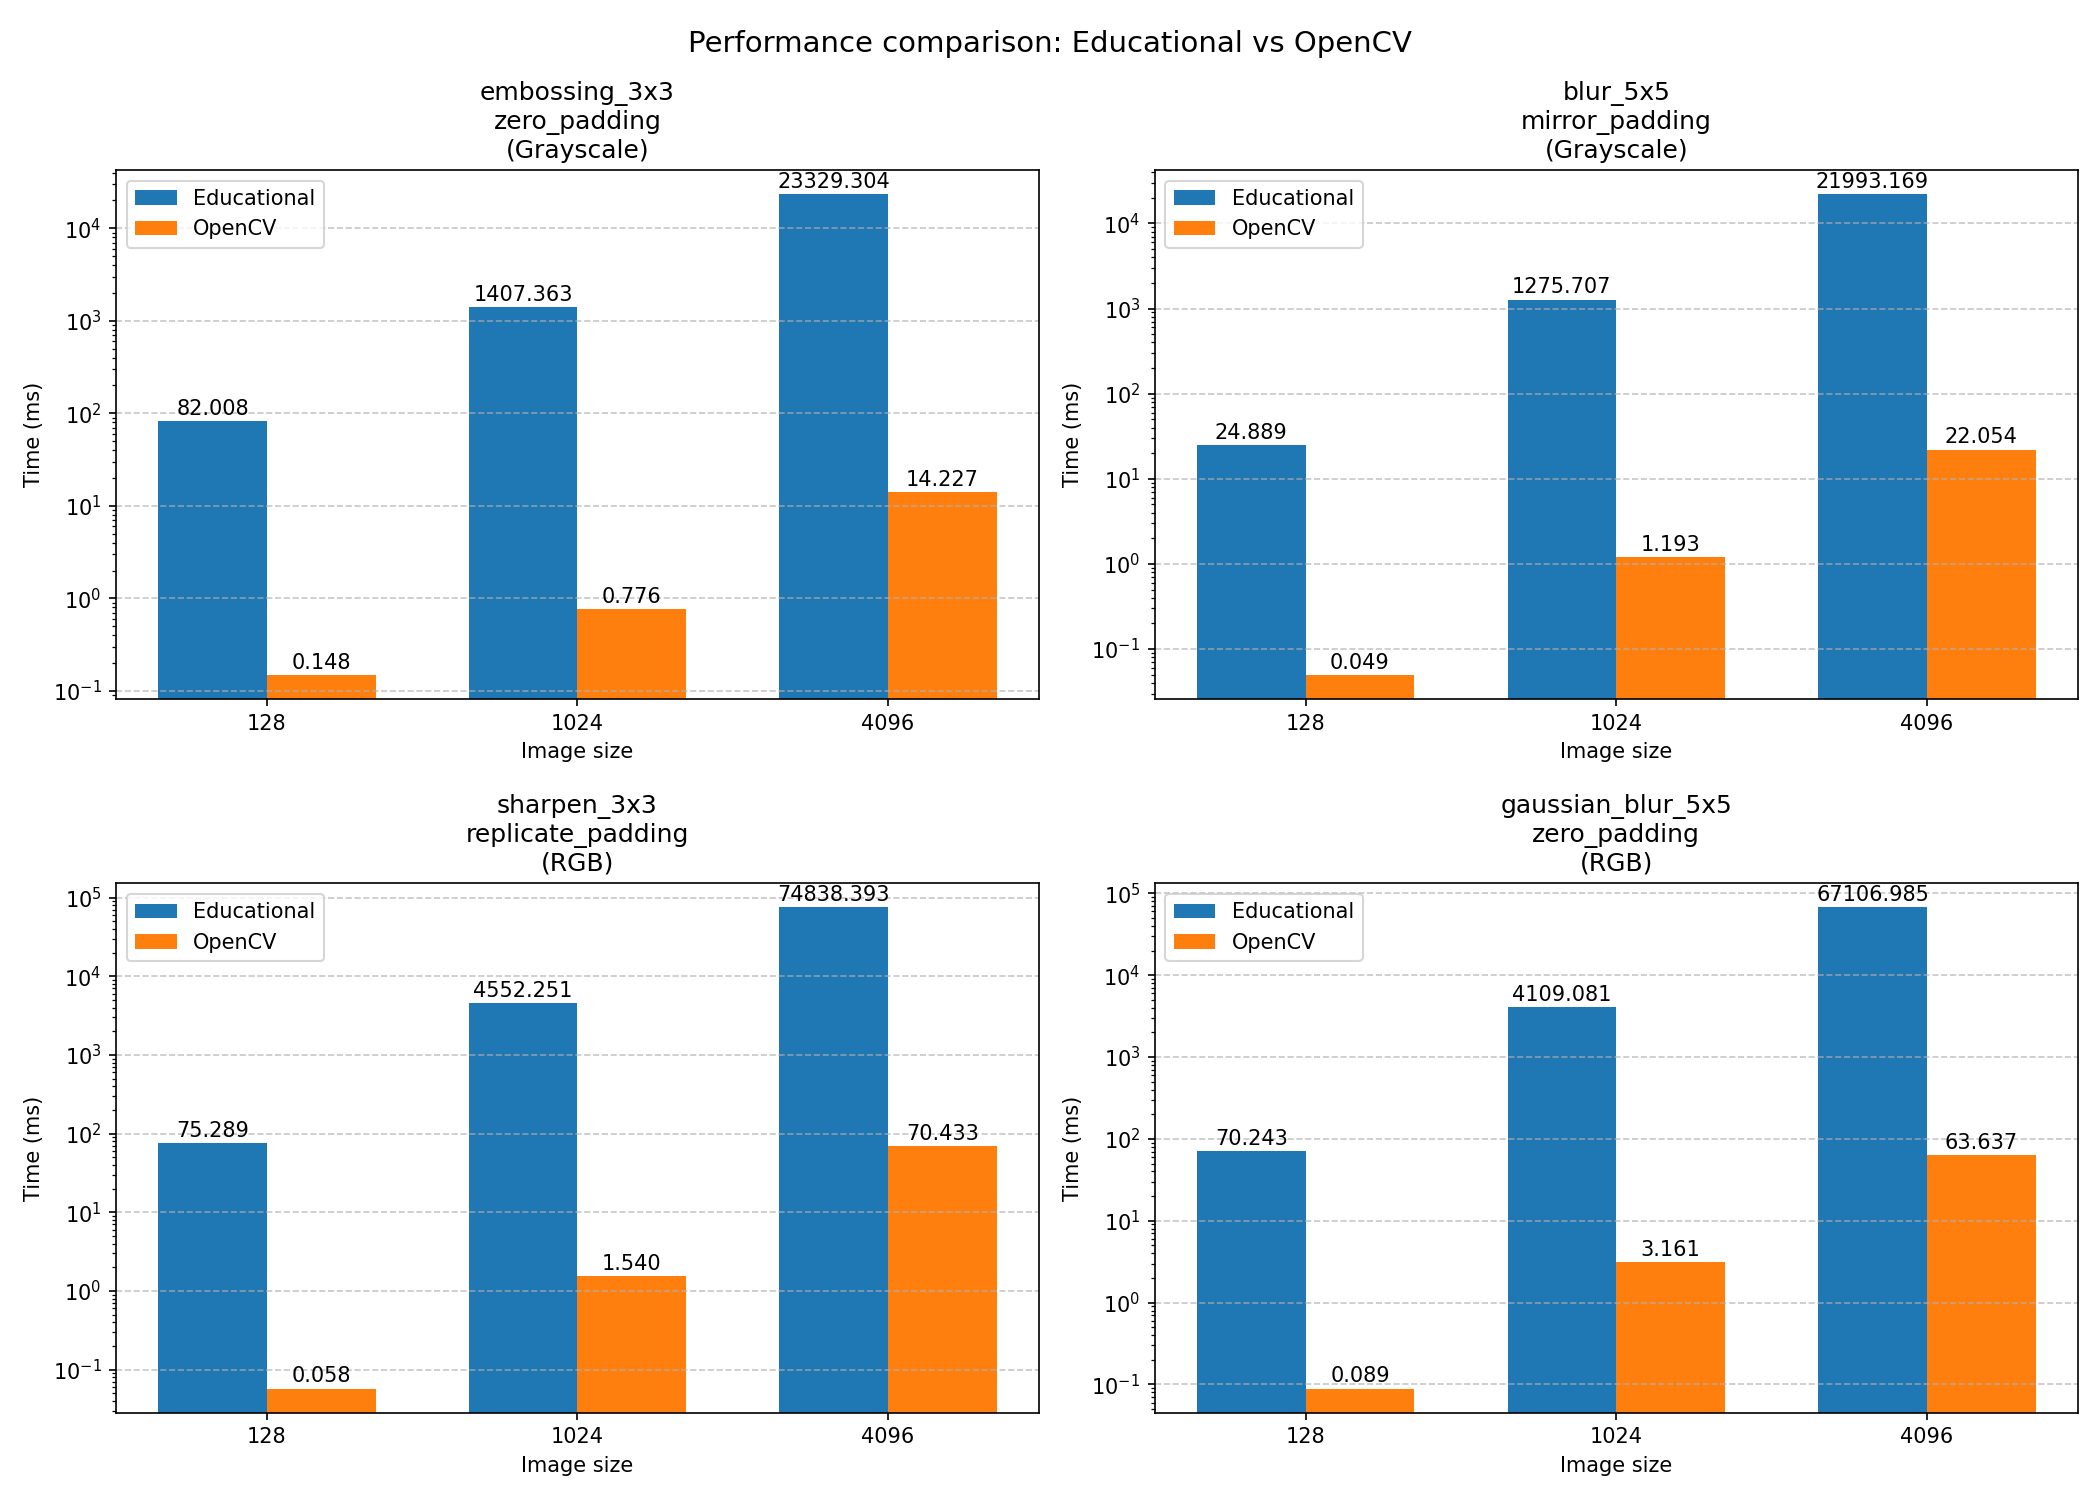
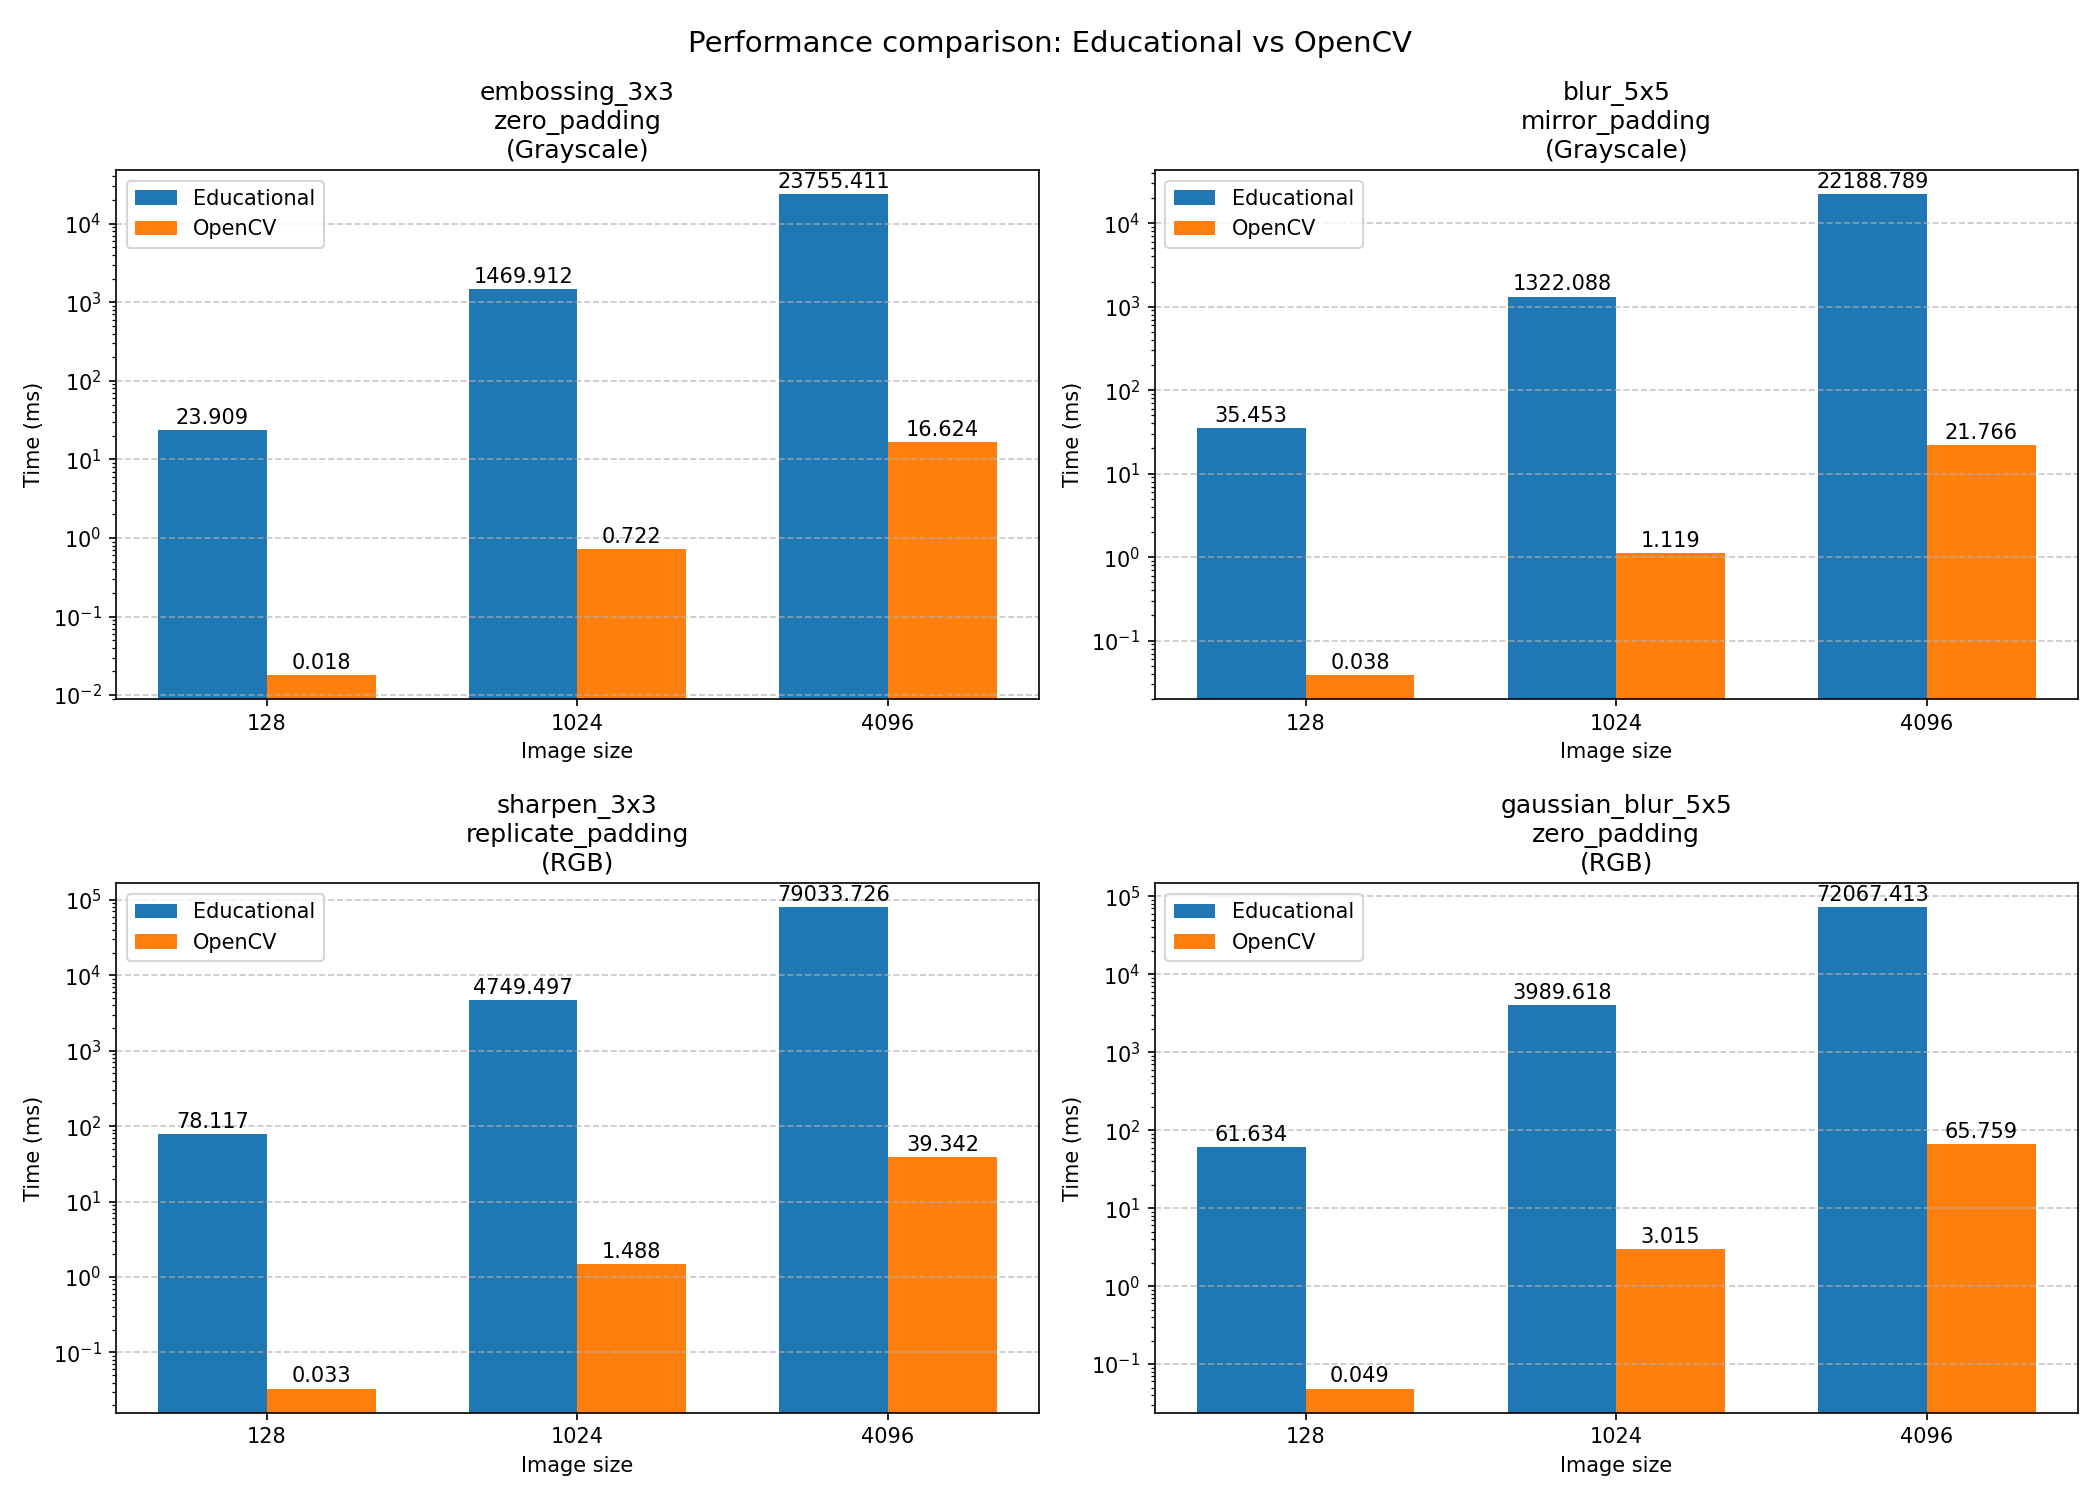
add warmup and multiple runs to benchmark

diff --git a/src/benchmark/benchmark.py b/src/benchmark/benchmark.py
@@ -39,15 +39,22 @@ def _measure_convolution(
     kernel = KERNELS[kernel_name]
     border = PADDING_FOR_OPENCV.get(padding_name, cv2.BORDER_DEFAULT)
 
-    start = time.perf_counter()
+    # для прогрева
     func(img, kernel_name, padding_name)
-    edu_time = time.perf_counter() - start
-
-    start = time.perf_counter()
     cv2.filter2D(img, ddepth=-1, kernel=kernel, borderType=border)
-    cv_time = time.perf_counter() - start
 
-    return edu_time, cv_time
+    edu_total = 0.0
+    cv_total = 0.0
+    for _ in range(3):
+        start = time.perf_counter()
+        func(img, kernel_name, padding_name)
+        edu_total += time.perf_counter() - start
+
+        start = time.perf_counter()
+        cv2.filter2D(img, ddepth=-1, kernel=kernel, borderType=border)
+        cv_total += time.perf_counter() - start
+
+    return edu_total / 3, cv_total / 3
 
 
 def _testing_image(

diff --git a/src/benchmark/benchmark_results_description.md b/src/benchmark/benchmark_results_description.md
@@ -7,14 +7,14 @@
 ## Результаты
 
 - **128×128**: 
-    - **Grayscale**: Educational ≈ 104 мс, OpenCV ≈ 0,28 мс. Разрыв в 370 раз. 
-    - **RGB**: Educational ≈ 212 мс, OpenCV ≈ 0,15 мс. Разрыв в 1410 раз. 
+    - **Grayscale**: Educational ≈ 30.00 мс, OpenCV ≈ 0.03 мс. Разрыв в 1000 раз. 
+    - **RGB**: Educational ≈ 70.00 мс, OpenCV ≈ 0.04 мс. Разрыв в 1750 раз. 
 - **1024×1024**:
-    - **Grayscale**: Educational ≈ 3,87 с, OpenCV ≈ 1,98 мс. Разрыв в 1950 раз. 
-    - **RGB**: Educational ≈ 11,32 с, OpenCV ≈ 5,72 мс. Разрыв в 1980 раз. 
+    - **Grayscale**: Educational ≈ 1.40 с, OpenCV ≈ 0.92 мс. Разрыв в 1521 раз. 
+    - **RGB**: Educational ≈ 4.37 с, OpenCV ≈ 2.25 мс. Разрыв в 1922 раза. 
 - **4096×4096**:
-    - **Grayscale**: Educational ≈ 60,4 с, OpenCV ≈ 44,0 мс. Разрыв в 1370 раз. 
-    - **RGB**: Educational ≈ 181,9 с, OpenCV ≈ 136,3 мс. Разрыв в 1335 раз. 
+    - **Grayscale**: Educational ≈ 22.97 с, OpenCV ≈ 19.20 мс. Разрыв в 1196 раз. 
+    - **RGB**: Educational ≈ 75.55 с, OpenCV ≈ 55,55 мс. Разрыв в 1360 раз. 
 
 ## Причины различий
 
